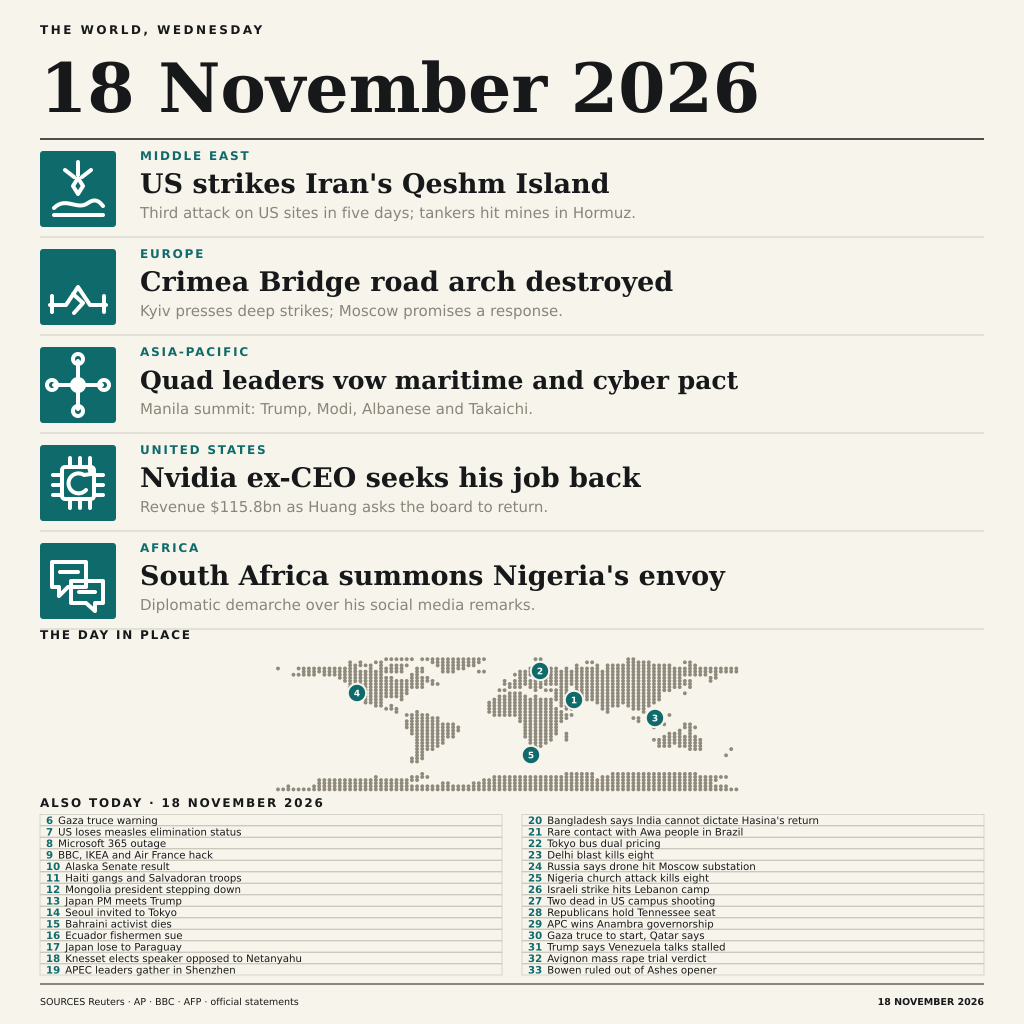
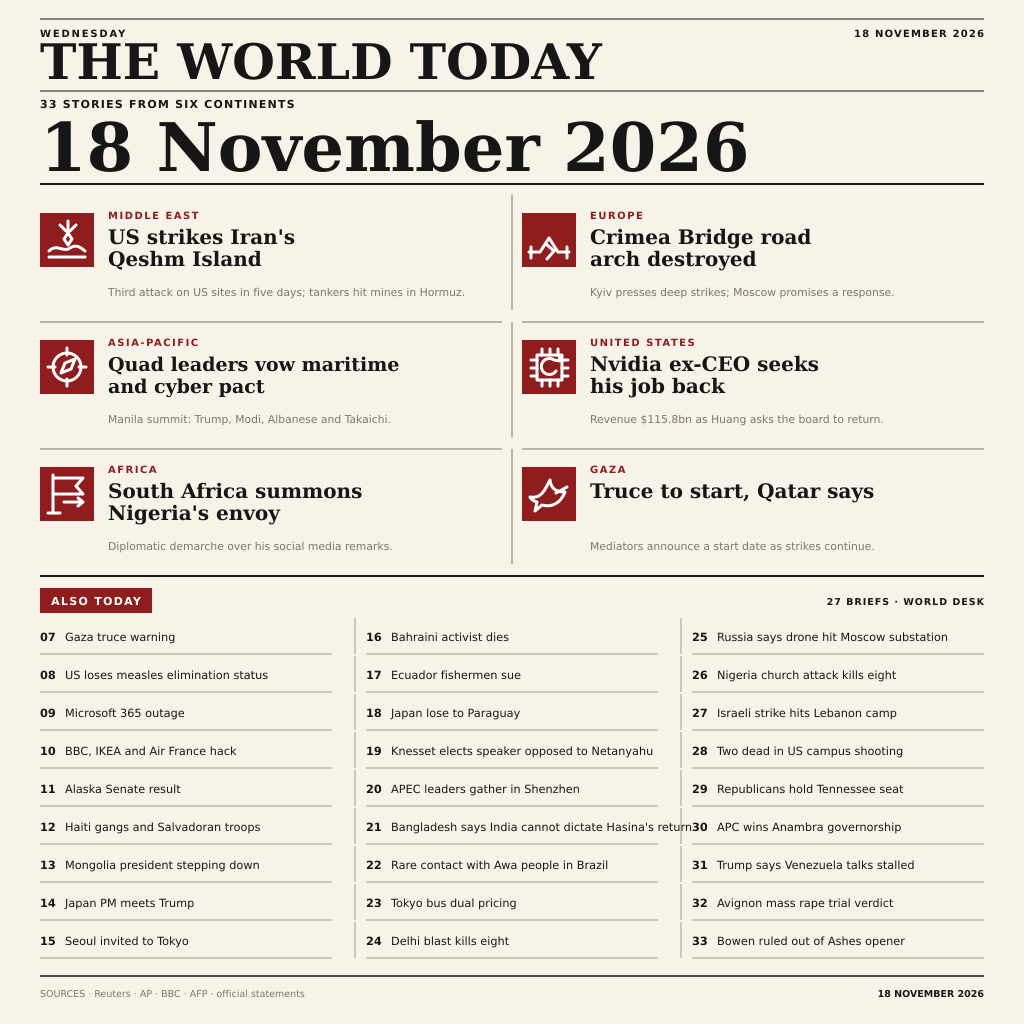
Front page for 18 November 2026: 33 stories, six leads, 27 briefs

diff --git a/gen.py b/gen.py
@@ -1,5 +1,5 @@
 #!/usr/bin/env python3
-"""Generate the 18 November 2026 world-news day strip."""
+"""Draw a newspaper front page for 18 November 2026."""
 from __future__ import annotations
 
 import html
@@ -8,125 +8,131 @@ import subprocess
 import sys
 import tempfile
 
-W, H = 1024, 1024
-PAPER, INK, TEAL, GREY, WHITE = "#f7f4ec", "#17181a", "#0f6b6b", "#8a8578", "#ffffff"
+W = H = 1024
+PAPER, INK, CRIMSON, GREY, WHITE = "#f7f3e8", "#161616", "#8f1d1d", "#7d7668", "#ffffff"
 
-STORIES = [
+LEADS = [
     ("MIDDLE EAST", "US strikes Iran's Qeshm Island", "Third attack on US sites in five days; tankers hit mines in Hormuz."),
     ("EUROPE", "Crimea Bridge road arch destroyed", "Kyiv presses deep strikes; Moscow promises a response."),
     ("ASIA-PACIFIC", "Quad leaders vow maritime and cyber pact", "Manila summit: Trump, Modi, Albanese and Takaichi."),
     ("UNITED STATES", "Nvidia ex-CEO seeks his job back", "Revenue $115.8bn as Huang asks the board to return."),
     ("AFRICA", "South Africa summons Nigeria's envoy", "Diplomatic demarche over his social media remarks."),
+    ("GAZA", "Truce to start, Qatar says", "Mediators announce a start date as strikes continue."),
 ]
 
-ALSO = [
-    "Gaza truce warning", "US loses measles elimination status",
-    "Microsoft 365 outage", "BBC, IKEA and Air France hack",
-    "Alaska Senate result", "Haiti gangs and Salvadoran troops",
-    "Mongolia president stepping down", "Japan PM meets Trump",
-    "Seoul invited to Tokyo", "Bahraini activist dies",
-    "Ecuador fishermen sue", "Japan lose to Paraguay",
-    "Knesset elects speaker opposed to Netanyahu",
-    "APEC leaders gather in Shenzhen",
-    "Bangladesh says India cannot dictate Hasina's return",
-    "Rare contact with Awa people in Brazil", "Tokyo bus dual pricing",
-    "Delhi blast kills eight", "Russia says drone hit Moscow substation",
+BRIEFS = [
+    "Gaza truce warning", "US loses measles elimination status", "Microsoft 365 outage",
+    "BBC, IKEA and Air France hack", "Alaska Senate result", "Haiti gangs and Salvadoran troops",
+    "Mongolia president stepping down", "Japan PM meets Trump", "Seoul invited to Tokyo",
+    "Bahraini activist dies", "Ecuador fishermen sue", "Japan lose to Paraguay",
+    "Knesset elects speaker opposed to Netanyahu", "APEC leaders gather in Shenzhen",
+    "Bangladesh says India cannot dictate Hasina's return", "Rare contact with Awa people in Brazil",
+    "Tokyo bus dual pricing", "Delhi blast kills eight", "Russia says drone hit Moscow substation",
     "Nigeria church attack kills eight", "Israeli strike hits Lebanon camp",
     "Two dead in US campus shooting", "Republicans hold Tennessee seat",
-    "APC wins Anambra governorship", "Gaza truce to start, Qatar says",
-    "Trump says Venezuela talks stalled", "Avignon mass rape trial verdict",
-    "Bowen ruled out of Ashes opener",
+    "APC wins Anambra governorship", "Trump says Venezuela talks stalled",
+    "Avignon mass rape trial verdict", "Bowen ruled out of Ashes opener",
 ]
 
 
-def esc(s: str) -> str:
-    return html.escape(s, quote=True)
+def esc(value: str) -> str:
+    return html.escape(value, quote=True)
 
 
-def icon(n: int, x: int, y: int) -> str:
-    """Bold, legible white pictograms centered in a 76 px teal tile."""
-    cx, cy = x + 38, y + 38
-    common = f'fill="none" stroke="{WHITE}" stroke-width="4" stroke-linecap="round" stroke-linejoin="round"'
-    if n == 1:  # island, blast, strait
-        return f'<path {common} d="M{x+14} {y+57}c12-12 23 3 34-5 7-5 11-2 15 3 M{x+14} {y+64}h49 M{cx} {y+11}v13 m-13-5 9 7 m17-7-9 7 M{cx} {y+27}l-5 8 5 8 5-8z"/>'
-    if n == 2:  # broken bridge
-        return f'<path {common} d="M{x+10} {y+56}h16l12-18 12 18h16 M{x+12} {y+63}v-16 M{x+64} {y+63}v-16 M{cx-5} {y+45}l10 9-9 10"/>'
-    if n == 3:  # four nodes / maritime pact
-        return f'<circle cx="{cx}" cy="{cy}" r="8" fill="{WHITE}"/><path {common} d="M{cx} {cy-8}V{y+14} M{cx+8} {cy}H{x+62} M{cx} {cy+8}V{y+62} M{cx-8} {cy}H{x+14}"/><circle {common} cx="{cx}" cy="{y+12}" r="5"/><circle {common} cx="{x+64}" cy="{cy}" r="5"/><circle {common} cx="{cx}" cy="{y+64}" r="5"/><circle {common} cx="{x+12}" cy="{cy}" r="5"/>'
-    if n == 4:  # chip / return arrow
-        return f'<rect {common} x="{x+22}" y="{y+22}" width="32" height="32" rx="3"/><path {common} d="M{x+30} {y+13}v9m10-9v9m10-9v9m-20 32v9m10-9v9m10-9v9 M{x+13} {y+30}h9m-9 10h9m-9 10h9m32-20h9m-9 10h9m-9 10h9 M{x+46} {y+45}a10 10 0 1 1-2-15 M{x+44} {y+30}l7-1-2-7"/>'
-    return f'<path {common} d="M{x+12} {y+19}h34v25H{x+28}l-9 9v-9h-7z M{x+31} {y+38}h32v22H{x+55}v8l-9-8H{x+31}z M{x+20} {y+29}h18 M{x+39} {y+49}h16"/>'
+def fitted_text(text: str, x: float, y: float, max_width: float, size: float, css: str) -> str:
+    """Apply textLength only when a conservative width estimate exceeds the box."""
+    estimate = len(text) * size * (0.57 if "sans" in css else 0.59)
+    fit = f' textLength="{max_width:.1f}" lengthAdjust="spacingAndGlyphs"' if estimate > max_width else ""
+    return f'<text class="{css}" x="{x}" y="{y}" font-size="{size}"{fit}>{esc(text)}</text>'
 
 
-def map_svg() -> str:
-    with open("/tmp/mask.txt", encoding="ascii") as f:
-        rows = f.read().splitlines()
-    if len(rows) != 45 or any(len(row) != 90 for row in rows):
-        raise ValueError("/tmp/mask.txt must be exactly 90x45")
-    dots = []
-    for yy, row in enumerate(rows):
-        for xx, ch in enumerate(row):
-            if ch == "#":
-                dots.append(f'<circle cx="{278 + xx*5.15:.2f}" cy="{653 + yy*3.10:.2f}" r="1.95"/>')
-    # approximate story locations: Gulf, Crimea, Manila, US, South Africa
-    markers = [(574, 700), (540, 671), (655, 718), (357, 693), (531, 755)]
-    ms = []
-    for i, (x, y) in enumerate(markers, 1):
-        ms.append(f'<circle cx="{x}" cy="{y}" r="9.2" fill="{TEAL}" stroke="{PAPER}" stroke-width="2"/><text x="{x}" y="{y+3.3}" text-anchor="middle" class="mark">{i}</text>')
-    return f'<g fill="{GREY}" opacity=".96">{"".join(dots)}</g>{"".join(ms)}'
+def icon(number: int, x: int, y: int) -> str:
+    """Six high-contrast editorial pictograms in 54-pixel tiles."""
+    s = f'fill="none" stroke="{WHITE}" stroke-width="3" stroke-linecap="round" stroke-linejoin="round"'
+    if number == 1:
+        body = f'<path {s} d="M{x+9} {y+38}c8-8 14 2 21-3 6-4 10-1 15 3M{x+9} {y+44}h36M{x+28} {y+8}v10m-8-6 6 6m10-6-6 6M{x+28} {y+20}l-4 6 4 6 4-6z"/>'
+    elif number == 2:
+        body = f'<path {s} d="M{x+7} {y+39}h11l9-14 9 14h11M{x+9} {y+45}V{y+34}m36 11V{y+34}M{x+24} {y+31}l8 7-7 8"/>'
+    elif number == 3:
+        body = f'<circle {s} cx="{x+27}" cy="{y+27}" r="14"/><path {s} d="M{x+27} {y+8}v7m0 24v7M{x+8} {y+27}h7m24 0h7M{x+21} {y+33}l4-10 10-4-4 10z"/>'
+    elif number == 4:
+        body = f'<rect {s} x="{x+15}" y="{y+15}" width="25" height="25"/><path {s} d="M{x+20} {y+9}v6m8-6v6m8-6v6m-16 25v6m8-6v6m8-6v6M{x+9} {y+20}h6m-6 8h6m-6 8h6m25-16h6m-6 8h6m-6 8h6M{x+34} {y+31}a8 8 0 1 1-2-11m0 0 6 1-1-6"/>'
+    elif number == 5:
+        body = f'<path {s} d="M{x+13} {y+8}v38M{x+14} {y+11}h29l-7 8 7 8H{x+14}M{x+8} {y+46}h12M{x+24} {y+35}h19m-5-4 5 4-5 4"/>'
+    else:
+        body = f'<path {s} d="M{x+8} {y+30}c12 2 15-8 20-17 1 8 5 12 15 12-4 10-12 16-23 13l-7 6 2-9c-4-1-6-3-7-5zM{x+34} {y+26}l11-6"/>'
+    return f'<rect x="{x}" y="{y}" width="54" height="54" fill="{CRIMSON}"/>{body}'
 
 
-def svg() -> str:
-    out = [f'''<svg xmlns="http://www.w3.org/2000/svg" width="{W}" height="{H}" viewBox="0 0 {W} {H}">
+def headline_lines(number: int) -> list[str]:
+    return {
+        1: ["US strikes Iran's", "Qeshm Island"], 2: ["Crimea Bridge road", "arch destroyed"],
+        3: ["Quad leaders vow maritime", "and cyber pact"], 4: ["Nvidia ex-CEO seeks", "his job back"],
+        5: ["South Africa summons", "Nigeria's envoy"], 6: ["Truce to start, Qatar says"],
+    }[number]
+
+
+def make_svg() -> str:
+    out = [f'''<svg xmlns="http://www.w3.org/2000/svg" width="1024" height="1024" viewBox="0 0 1024 1024">
 <rect width="1024" height="1024" fill="{PAPER}"/>
 <style>
- .sans {{font-family:"DejaVu Sans",sans-serif; fill:{INK}}}
- .serif {{font-family:"DejaVu Serif",serif; fill:{INK}}}
- .region {{font-family:"DejaVu Sans",sans-serif;font-size:12px;font-weight:700;letter-spacing:1.8px;fill:{TEAL}}}
- .fact {{font-family:"DejaVu Sans",sans-serif;font-size:15px;fill:{GREY}}}
- .mark {{font-family:"DejaVu Sans",sans-serif;font-size:9px;font-weight:700;fill:white}}
+.sans {{font-family:"DejaVu Sans",sans-serif;fill:{INK}}}
+.heavy {{font-family:"DejaVu Serif",serif;fill:{INK};font-weight:700}}
+.region {{font-family:"DejaVu Sans",sans-serif;fill:{CRIMSON};font-weight:700;letter-spacing:1.5px}}
+.fact {{font-family:"DejaVu Sans",sans-serif;fill:{GREY}}}
 </style>
-<text class="sans" x="40" y="34" font-size="12" font-weight="700" letter-spacing="2.5">THE WORLD, WEDNESDAY</text>
-<text class="serif" x="40" y="112" font-size="68" font-weight="700" textLength="944" lengthAdjust="spacingAndGlyphs">18 November 2026</text>
-<path d="M40 139H984" stroke="{INK}" stroke-width="1.5"/>
+<path d="M40 19H984M40 91H984" stroke="{INK}" stroke-width="1"/>
+<text class="sans" x="40" y="37" font-size="10" font-weight="700" letter-spacing="1.8">WEDNESDAY</text>
+<text class="sans" x="984" y="37" text-anchor="end" font-size="10" font-weight="700" letter-spacing="1.2">18 NOVEMBER 2026</text>
+<text class="heavy" x="40" y="79" font-size="49" textLength="944" lengthAdjust="spacingAndGlyphs">THE WORLD TODAY</text>
+<text class="sans" x="40" y="108" font-size="11" font-weight="700" letter-spacing="1.2">33 STORIES FROM SIX CONTINENTS</text>
+<text class="heavy" x="40" y="171" font-size="67" textLength="944" lengthAdjust="spacingAndGlyphs">18 November 2026</text>
+<path d="M40 184H984" stroke="{INK}" stroke-width="2"/>
 ''']
-    for i, (region, headline, fact) in enumerate(STORIES, 1):
-        y = 140 + (i - 1) * 98
-        # headline size is selected per measured available line width; long item 3 is set smaller.
-        hsize = 25 if i == 3 else 27
-        out.append(f'<path d="M40 {y+97}H984" stroke="{GREY}" stroke-opacity=".35"/>')
-        out.append(f'<rect x="40" y="{y+11}" width="76" height="76" rx="3" fill="{TEAL}"/>')
-        out.append(icon(i, 40, y + 11))
-        out.append(f'<text class="region" x="140" y="{y+20}">{esc(region)}</text>')
-        out.append(f'<text class="serif" x="140" y="{y+53}" font-size="{hsize}" font-weight="700">{esc(headline)}</text>')
-        out.append(f'<text class="fact" x="140" y="{y+78}">{esc(fact)}</text>')
-    out.append(f'''<text class="sans" x="40" y="639" font-size="12" font-weight="700" letter-spacing="1.8" fill="{TEAL}">THE DAY IN PLACE</text>
-{map_svg()}
-<text class="sans" x="40" y="807" font-size="12" font-weight="700" letter-spacing="1.8" fill="{TEAL}">ALSO TODAY · 18 NOVEMBER 2026</text>''')
-    for idx, item in enumerate(ALSO, 6):
-        col = 0 if idx < 20 else 1
-        row = idx - 6 if col == 0 else idx - 20
-        x = 40 + col * 482
-        y = 824 + row * 11.5
-        out.append(f'<rect x="{x}" y="{y-9.5}" width="462" height="11" fill="none" stroke="{GREY}" stroke-opacity=".30"/>')
-        out.append(f'<text class="sans" x="{x+6}" y="{y}" font-size="10.2"><tspan fill="{TEAL}" font-weight="700">{idx}</tspan><tspan dx="5">{esc(item)}</tspan></text>')
-    out.append(f'''<path d="M40 984H984" stroke="{INK}" stroke-width="1"/>
-<text class="sans" x="40" y="1005" font-size="9.5" fill="{GREY}">SOURCES  Reuters · AP · BBC · AFP · official statements</text>
-<text class="sans" x="984" y="1005" text-anchor="end" font-size="9.5" font-weight="700">18 NOVEMBER 2026</text>
+    card_top, card_h = 195, 127
+    for i, (region, _headline, fact) in enumerate(LEADS, 1):
+        col, row = (i - 1) % 2, (i - 1) // 2
+        x, y = 40 + col * 482, card_top + row * card_h
+        if col:
+            out.append(f'<path d="M512 {y}V{y+115}" stroke="{GREY}"/>')
+        if row:
+            out.append(f'<path d="M{x} {y}H{x+462}" stroke="{GREY}"/>')
+        out.append(icon(i, x, y + 18))
+        tx = x + 68
+        out.append(f'<text class="region" x="{tx}" y="{y+24}" font-size="10">{esc(region)}</text>')
+        for line_no, line in enumerate(headline_lines(i)):
+            out.append(fitted_text(line, tx, y + 49 + line_no * 22, 392, 19 if i == 3 else 20, "heavy"))
+        out.append(fitted_text(fact, tx, y + 101, 392, 10.8, "fact sans"))
+    out.append(f'''<path d="M40 576H984" stroke="{INK}" stroke-width="2"/>
+<rect x="40" y="588" width="112" height="25" fill="{CRIMSON}"/>
+<text x="96" y="605" text-anchor="middle" font-family="DejaVu Sans,sans-serif" font-size="11" font-weight="700" letter-spacing="1.3" fill="{WHITE}">ALSO TODAY</text>
+<text class="sans" x="984" y="605" text-anchor="end" font-size="9.5" font-weight="700" letter-spacing="1">27 BRIEFS · WORLD DESK</text>
+''')
+    col_width, row_h, brief_top = 292, 38, 623
+    for offset, brief in enumerate(BRIEFS):
+        col, row = offset // 9, offset % 9
+        x, y = 40 + col * 326, brief_top + row * row_h
+        out.append(f'<path d="M{x} {y+31}H{x+col_width}" stroke="{GREY}" stroke-width="0.7"/>')
+        if col:
+            out.append(f'<path d="M{x-11} {y-5}V{y+31}" stroke="{GREY}" stroke-width="0.7"/>')
+        out.append(f'<text class="sans" x="{x}" y="{y+18}" font-size="11.3" fill="{CRIMSON}" font-weight="700">{offset+7:02d}</text>')
+        out.append(fitted_text(brief, x + 25, y + 18, col_width - 25, 11.3, "sans"))
+    out.append(f'''<path d="M40 976H984" stroke="{INK}" stroke-width="1.5"/>
+<text class="fact" x="40" y="997" font-size="9.5">SOURCES · Reuters · AP · BBC · AFP · official statements</text>
+<text class="sans" x="984" y="997" text-anchor="end" font-size="9.5" font-weight="700">18 NOVEMBER 2026</text>
 </svg>''')
     return "".join(out)
 
 
 def main() -> None:
     output = sys.argv[1] if len(sys.argv) > 1 else "entry.png"
-    data = svg().encode()
-    with tempfile.NamedTemporaryFile(suffix=".svg", delete=False) as f:
-        f.write(data)
-        temp = f.name
+    with tempfile.NamedTemporaryFile(suffix=".svg", delete=False) as temp:
+        temp.write(make_svg().encode("utf-8"))
+        temp_path = temp.name
     try:
-        subprocess.run(["rsvg-convert", "-w", str(W), "-h", str(H), "-o", output, temp], check=True)
+        subprocess.run(["rsvg-convert", "-w", str(W), "-h", str(H), "-o", output, temp_path], check=True)
     finally:
-        os.unlink(temp)
+        os.unlink(temp_path)
 
 
 if __name__ == "__main__":

diff --git a/README.md b/README.md
@@ -1,22 +1,28 @@
-# The World, Wednesday
+# The World Today
+
 [![make.fun · news-image-20261118](https://make.fun/badge/news-image-20261118.svg)](https://make.fun/bounty/news-image-20261118?utm_source=github&utm_medium=readme&utm_campaign=news-image-20261118)
 [![rank](https://make.fun/badge/news-image-20261118/AdityaPratama0/news-image-18nov-main/rank.svg)](https://make.fun/bounty/news-image-20261118/leaderboard?utm_source=github&utm_medium=readme&utm_campaign=news-image-20261118)
 [![reward](https://make.fun/badge/news-image-20261118/AdityaPratama0/news-image-18nov-main/reward.svg)](https://make.fun/bounty/news-image-20261118?utm_source=github&utm_medium=readme&utm_campaign=news-image-20261118)
 
-A program-drawn vertical day-strip summarising world news for 18 November 2026. Five lead stories form the timeline; numbered markers connect them to a dotted world map, while twenty-eight smaller developments complete the day.
+A program-drawn newspaper front page for 18 November 2026. Six illustrated lead cards form the front-page grid, followed by 27 compact briefs in three ruled columns. Together they present all 33 stories with a traditional masthead, restrained editorial typography, and a warm-paper, ink, deep-crimson, warm-grey, and white palette.
 
-The palette is deliberately restrained: warm paper, near-black ink, teal wayfinding, and warm-grey secondary detail. The illustration is generated as SVG geometry and typography, then rasterised deterministically with `rsvg-convert`.
+The artwork is generated as deterministic SVG geometry and typography using only the Python standard library, then rasterised to a 1024 × 1024 PNG with `rsvg-convert`. It does not require the optional map mask or network access.
 
 ## Regenerate
 
-From this directory, with Python 3, `rsvg-convert`, DejaVu fonts, Node 22, ImageMagick, and `/tmp/mask.txt` available:
+From this directory, with Python 3, `rsvg-convert`, DejaVu fonts, Node, and ImageMagick installed:
 
 ```sh
 python3 gen.py entry.png
 identify entry.png
-mkdir -p /tmp/nim
-MAKEFUN_OUTPUT_DIR=/tmp/nim node main.ts
-sha256sum entry.png /tmp/nim/entry.png
+mkdir -p /tmp/np
+MAKEFUN_OUTPUT_DIR=/tmp/np node main.ts
+sha256sum entry.png /tmp/np/entry.png
 ```
 
-No network access or third-party language packages are used.
+For a readability check at the target preview size:
+
+```sh
+convert entry.png -resize 480x480 /tmp/front-page-480.png
+identify /tmp/front-page-480.png
+```
